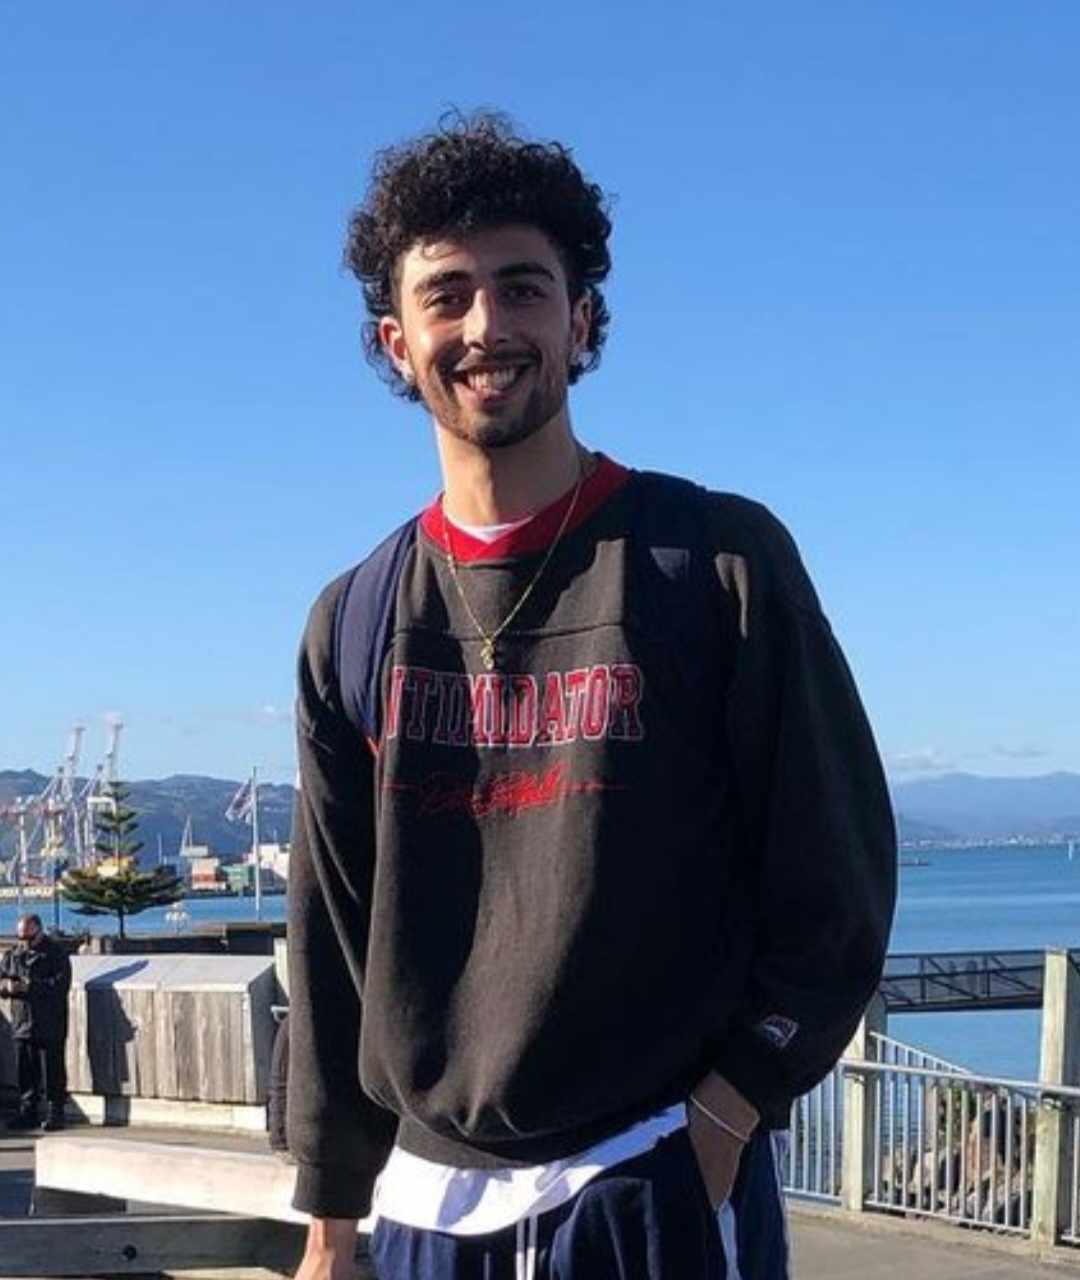
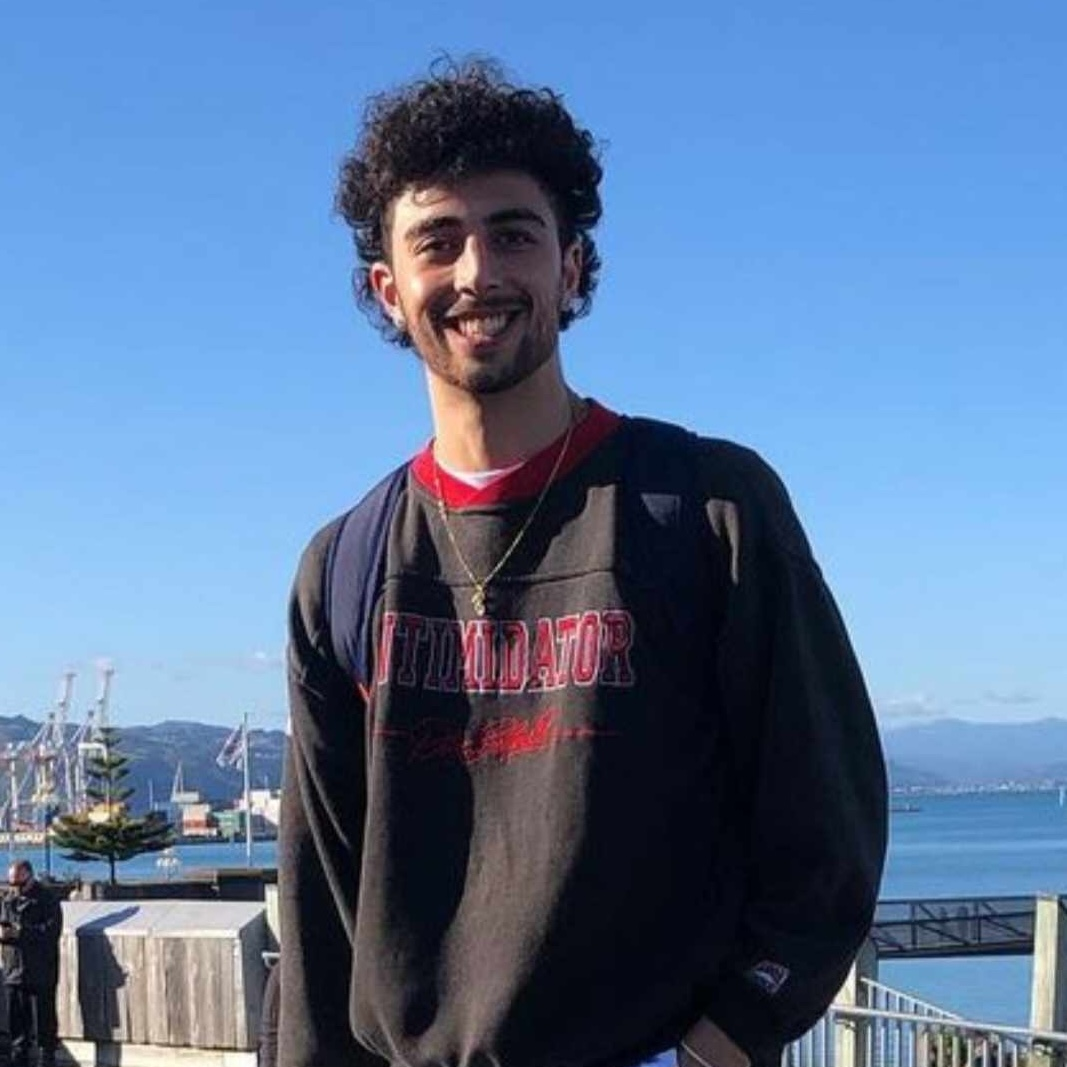
Update site

diff --git a/index.html b/index.html
@@ -6,11 +6,15 @@
     <meta content="width=device-width, initial-scale=1.0" name="viewport">
 
     <title>GeoSolutions</title>
-    <meta content="We are a specialised consultancy practising in geotechnical engineering and engineering geology. We cover projects and sites all around the Top of the South Island and look after both the residential and commercial building sectors. We’re a local business and aim to look after our clients so that they tell all their friends. Word-of-mouth referrals are our favourite jobs! Talk to us now and find out how we can help." name="description">
+    <meta
+        content="We are a specialised consultancy practising in geotechnical engineering and engineering geology. We cover projects and sites all around the Top of the South Island and look after both the residential and commercial building sectors. We’re a local business and aim to look after our clients so that they tell all their friends. Word-of-mouth referrals are our favourite jobs! Talk to us now and find out how we can help."
+        name="description">
     <meta content="Geology Geosolution Sally Hargraves Geosolutions nz Geosolution NZ New Zealand" name="keywords">
     <link href="assets/img/icon.png" rel="icon" sizes="32x32">
     <link href="assets/img/icon.png" rel="apple-touch-icon">
-    <link href="https://fonts.googleapis.com/css?family=Open+Sans:300,300i,400,400i,700,700i|Roboto:100,300,400,500,700|Philosopher:400,400i,700,700i" rel="stylesheet">
+    <link
+        href="https://fonts.googleapis.com/css?family=Open+Sans:300,300i,400,400i,700,700i|Roboto:100,300,400,500,700|Philosopher:400,400i,700,700i"
+        rel="stylesheet">
     <link href="assets/vendor/bootstrap/css/bootstrap.min.css" rel="stylesheet">
     <link href="assets/vendor/bootstrap-icons/bootstrap-icons.css" rel="stylesheet">
     <link href="assets/css/style.css" rel="stylesheet">
@@ -41,7 +45,7 @@
     </header>
     <section id="home" );>
         <div class="home-container" data-aos="fade-in">
-            <h1>Welcome to <br /> GeoSolutions</h1>
+            <h1><span style="font-weight: 400">Welcome to </span><br /> GeoSolutions</h1>
             <h2>Geotechnical Specialists</h2>
             <a href="#get-started" class="btn-get-started scrollto">Get Started</a>
         </div>
@@ -51,18 +55,17 @@
         <section id="get-started" class="padd-section" style="margin-top: 100px;">
 
             <div class="container" data-aos="fade-up">
-                <div class="section-title text-center">
 
-                    <h2>About Us</h2>
+                <div class="row text-center" style="justify-content: center;">
+                    <h1 style="font-weight: 100">About Us</h1>
 
-                </div>
-            </div>
-
-            <div class="container">
-                <div class="row" style="justify-content: center;">
-                    <div class="col-lg-6 col-lg-4" data-aos="zoom-in" data-aos-delay="300">
-                        <p style="font-size: 16px;">We are a specialised consultancy practising in geotechnical engineering and engineering geology. We cover projects and sites all around the Top of the South Island and look after both the residential and commercial building sectors.
-                            We’re a local business and aim to look after our clients so that they tell all their friends. Word-of-mouth referrals are our favourite jobs! Talk to us now and find out how we can help.
+                    <div class="col-lg-6 col-lg-4 mt-4" data-aos="zoom-in" data-aos-delay="300">
+                        <p style="font-size: 16px;">We are a specialised geotechnical consultancy, covering projects and
+                            sites all around the Top of the
+                            South Island and look after both the residential and commercial building sectors.
+                            We’re a local business and aim to look after our clients so that they tell all their
+                            friends. Word-of-mouth referrals are our favourite jobs! Talk to us now and find out how we
+                            can help.
                         </p>
 
                     </div>
@@ -85,27 +88,54 @@
                     <div class="col-md-7 col-lg-6">
                         <div class="about-content" data-aos="fade-left" data-aos-delay="100">
 
-                            <center>
+                            <div class="text-center">
                                 <h2>Our Services</h2>
-                            </center>
-                            <p>
-                                GeoSolutions provides specialist geotechnical engineering services to assist you with your building project. You may need to provide a Geotech report to accompany your application for resource consent for a subdivision or would like a foundation assessment
-                                for a new cellphone tower. We will help you establish an appropriate and cost-effective investigation for your project and then walk you through the process through to consent application. We usually need to double check
-                                the plans before application, may need to answer questions during the consent application and will almost certainly need to check the ground conditions during construction.
-                            </p>
 
-                            <ul class="list-unstyled">
-                                <li style="margin-bottom: -15px"><span style="color:black; font-size: 50px">.</span>Site and soil investigations</li>
-                                <li style="margin-bottom: -15px"><span style="color:black; font-size: 50px">.</span>Landslip damage assessment and remediation</li>
-                                <li style="margin-bottom: -15px"><span style="color:black; font-size: 50px">.</span>Subdivision geotechnical assessments (urban and rural)</li>
-                                <li style="margin-bottom: -15px"><span style="color:black; font-size: 50px">.</span>Liquefaction assessment</li>
-                                <li style="margin-bottom: -15px"><span style="color:black; font-size: 50px">.</span>Foundation design</li>
-                                <li style="margin-bottom: -15px"><span style="color:black; font-size: 50px">.</span>Establishment of fault location</li>
-                                <li style="margin-bottom: -15px"><span style="color:black; font-size: 50px;">.</span>Earthworks design, supervision & certification</li>
-                                <li style="margin-bottom: -15px"><span style="color:black; font-size: 50px">.</span>Natural disaster insurance assessment</li>
-                                <li style="margin-bottom: -15px"><span style="color:black; font-size: 50px">.</span>Geotechnical peer review services and expert opinions</li>
-                                <li style="margin-bottom: -15px"><span style="color:black; font-size: 50px">.</span>On-site wastewater disposal suitability assessment</li>
-                                <li style="margin-bottom: -15px"><span style="color:black; font-size: 50px;">.</span>Geotechnical site certification</li>
+                                <p>
+                                    GeoSolutions provides specialist geotechnical services to assist you with
+                                    your building project. You may need to provide a Geotech report to accompany your
+                                    application for resource consent for a subdivision or would like a foundation
+                                    assessment
+                                    for a new cellphone tower. We will help you establish an appropriate and
+                                    cost-effective
+                                    investigation for your project and then walk you through the process through to
+                                    consent
+                                    application. We usually need to double check
+                                    the plans before application, may need to answer questions during the consent
+                                    application and will almost certainly need to check the ground conditions during
+                                    construction.
+                                </p>
+                            </div>
+
+                            <ul class="list-unstyled p-4" style="margin-top: 10vh">
+                                <li style="margin-bottom: -15px"><span style="color:black; font-size: 50px">.</span>Site
+                                    and soil investigations</li>
+                                <li style="margin-bottom: -15px"><span
+                                        style="color:black; font-size: 50px">.</span>Landslip damage assessment and
+                                    remediation</li>
+                                <li style="margin-bottom: -15px"><span
+                                        style="color:black; font-size: 50px">.</span>Subdivision geotechnical
+                                    assessments (urban and rural)</li>
+                                <li style="margin-bottom: -15px"><span
+                                        style="color:black; font-size: 50px">.</span>Liquefaction assessment</li>
+                                <li style="margin-bottom: -15px"><span
+                                        style="color:black; font-size: 50px">.</span>Establishment of fault location
+                                </li>
+                                <li style="margin-bottom: -15px"><span
+                                        style="color:black; font-size: 50px;">.</span>Earthworks design, supervision &
+                                    certification</li>
+                                <li style="margin-bottom: -15px"><span
+                                        style="color:black; font-size: 50px">.</span>Natural disaster insurance
+                                    assessment</li>
+                                <li style="margin-bottom: -15px"><span
+                                        style="color:black; font-size: 50px">.</span>Geotechnical peer review services
+                                    and expert opinions</li>
+                                <li style="margin-bottom: -15px"><span
+                                        style="color:black; font-size: 50px">.</span>On-site wastewater disposal
+                                    suitability assessment</li>
+                                <li style="margin-bottom: -15px"><span
+                                        style="color:black; font-size: 50px;">.</span>Geotechnical site certification
+                                </li>
                             </ul>
 
                         </div>
@@ -121,11 +151,12 @@
                     <h2>Team Members</h2>
                 </div>
 
-                <div class="row" style="justify-content: center;">
+                <div class="row p-4" style="justify-content: center;">
 
-                    <div class="col-md-6 col-md-4 col-lg-3" >
-                        <div class="team-block bottom">
-                            <img src="assets/img/Stuff News Sally Nov-22 small.jpg" class="" alt="img">
+                    <!-- Team Member 1 -->
+                    <div class="col-md-6 col-md-4 col-lg-3">
+                        <div class="team-block bottom square-container"
+                            style="background-image: url('assets/img/Stuff News Sally Nov-22 small.jpg');">
                             <div class="team-content">
                                 <span>Professional Engineering Geologist</span>
                                 <h4>Sally Hargraves</h4>
@@ -133,9 +164,10 @@
                         </div>
                     </div>
 
+                    <!-- Team Member 2 -->
                     <div class="col-md-6 col-md-4 col-lg-3" data-aos="zoom-in" data-aos-delay="200">
-                        <div class="team-block bottom">
-                            <img src="assets/img/Mark Gray skateboard.jpeg" class="img-responsive" alt="img">
+                        <div class="team-block bottom square-container"
+                            style="background-image: url('assets/img/Mark Gray skateboard.jpeg');">
                             <div class="team-content">
                                 <span>Senior Engineering Geologist</span>
                                 <h4>Mark Gray</h4>
@@ -144,20 +176,10 @@
                         </div>
                     </div>
 
+                    <!-- Team Member 3 -->
                     <div class="col-md-6 col-md-4 col-lg-3" data-aos="zoom-in" data-aos-delay="200">
-                        <div class="team-block bottom">
-                            <img src="assets/img/employee2.jpg" class="img-responsive" alt="img">
-                            <div class="team-content">
-                                <span>Engineering Geologist</span>
-                                <h4>Marama Garland</h4>
-                                <h4>marama@geosolutions.nz</h4>
-                            </div>
-                        </div>
-                    </div>
-
-                    <div class="col-md-6 col-md-4 col-lg-3" data-aos="zoom-in" data-aos-delay="200">
-                        <div class="team-block bottom">
-                            <img src="assets/img/employee3.png" class="img-responsive" alt="img">
+                        <div class="team-block bottom square-container"
+                            style="background-image: url('assets/img/employee3.png');">
                             <div class="team-content">
                                 <span>Engineering Geologist</span>
                                 <h4>Sam Buckner</h4>
@@ -165,10 +187,11 @@
                             </div>
                         </div>
                     </div>
-                    <br /><br />
-                    <div class="col-md-6 col-md-4 col-lg-3 mt-4" data-aos="zoom-in" data-aos-delay="200">
-                        <div class="team-block bottom">
-                            <img src="assets/img/profile pic 2.jpg" class="img-responsive" alt="img">
+
+                    <!-- Team Member 4 -->
+                    <div class="col-md-6 col-md-4 col-lg-3" data-aos="zoom-in" data-aos-delay="200">
+                        <div class="team-block bottom square-container"
+                            style="background-image: url('assets/img/profile pic 2.jpg');">
                             <div class="team-content">
                                 <span>Graduate Engineering Geologist</span>
                                 <h4>Jordan Lindbom</h4>
@@ -176,18 +199,22 @@
                             </div>
                         </div>
                     </div>
-                    <div class="col-md-6 mt-4 col-md-4 col-lg-3" data-aos="zoom-in" data-aos-delay="200">
-                        <div class="team-block bottom">
-                            <img src="assets/img/Jarrod headshot.jpg" class="img-responsive" alt="img">
+
+                    <!-- Team Member 5 -->
+                    <div class="col-md-6 col-md-4 col-lg-3 second-team-row" data-aos="zoom-in" data-aos-delay="200">
+                        <div class="team-block bottom square-container"
+                            style="background-image: url('assets/img/Jarrod headshot.jpg');">
                             <div class="team-content">
                                 <span>Project Support</span>
                                 <h4>Jarrod Hammond</h4>
                             </div>
                         </div>
                     </div>
-                    <div class="col-md-6 col-md-4 col-lg-3 mt-4" data-aos="zoom-in" data-aos-delay="200">
-                        <div class="team-block bottom">
-                            <img src="assets/img/Danielle Headshot.JPG" class="img-responsive" alt="img">
+
+                    <!-- Team Member 6 -->
+                    <div class="col-md-6 col-md-4 col-lg-3 second-team-row" data-aos="zoom-in" data-aos-delay="200">
+                        <div class="team-block bottom square-container"
+                            style="background-image: url('assets/img/Danielle Headshot.JPG');">
                             <div class="team-content">
                                 <span>Administrative Support</span>
                                 <h4>Danielle Martin</h4>
@@ -198,12 +225,14 @@
                 </div>
             </div>
         </section>
-        <div class="container" id="contact" data-aos="fade-up" style="padding-top: 75px;">
-            <div class="section-title text-center">
-                <br /><br />
-                <h2>Contact Us</h2>
-                <h4>Mobile: 027 898 6000 <br />admin@geosolutions.nz<br />sally@geosolutions.nz</h4>
-
+        <div class="container">
+            <div id="contact" data-aos="fade-up">
+                <div class="text-center">
+                    <div class="contact-title">
+                        <h2>Contact Us</h2>
+                    </div>
+                    <h4>Mobile: 027 898 6000 <br />admin@geosolutions.nz<br />sally@geosolutions.nz</h4>
+                </div>
             </div>
         </div>
         <footer class="footer">
@@ -214,7 +243,8 @@
                         <div class="footer-logo">
 
                             <a class="navbar-brand" href="#">GeoSolutions</a>
-                            <p>Our focus is on the private sector market in the communities in and around the top of the South Island, New Zealand. (Nelson Tasman)</p>
+                            <p>Our focus is on the private sector market in the communities in and around the top of the
+                                South Island, New Zealand. (Nelson Tasman)</p>
 
                         </div>
                     </div>
@@ -241,7 +271,8 @@
 
         </footer>
 
-        <a href="#" class="back-to-top d-flex align-items-center justify-content-center"><i class="bi bi-arrow-up-short"></i></a>
+        <a href="#" class="back-to-top d-flex align-items-center justify-content-center"><i
+                class="bi bi-arrow-up-short"></i></a>
 
         <script src="assets/vendor/bootstrap/js/bootstrap.bundle.min.js"></script>
         <script src="assets/js/main.js"></script>

diff --git a/assets/css/style.css b/assets/css/style.css
@@ -1,4 +1,5 @@
 @charset "UTF-8";
+
 body {
     background-color: #ffffff;
     color: #333;
@@ -274,6 +275,7 @@ span {
     .navbar .dropdown .dropdown ul {
         left: -90%;
     }
+
     .navbar .dropdown .dropdown:hover>ul {
         left: -100%;
     }
@@ -301,6 +303,7 @@ span {
     .mobile-nav-toggle {
         display: block;
     }
+
     .navbar ul {
         display: none;
     }
@@ -602,9 +605,11 @@ section {
     .breadcrumbs .d-flex {
         display: block !important;
     }
+
     .breadcrumbs ol {
         display: block;
     }
+
     .breadcrumbs ol li {
         display: inline-block;
     }
@@ -851,6 +856,7 @@ section {
         transform: scale(0.6, 0.6);
         opacity: 1;
     }
+
     100% {
         transform: scale(1, 1);
         opacity: 0;
@@ -862,6 +868,7 @@ section {
         transform: scale(0.6, 0.6);
         opacity: 1;
     }
+
     100% {
         transform: scale(1, 1);
         opacity: 0;
@@ -873,6 +880,7 @@ section {
         transform: scale(0.1, 0.1);
         opacity: 1;
     }
+
     100% {
         transform: scale(1, 1);
         opacity: 0;
@@ -1393,6 +1401,7 @@ section {
     0% {
         transform: rotate(0deg);
     }
+
     100% {
         transform: rotate(360deg);
     }
@@ -1402,6 +1411,7 @@ section {
     0% {
         transform: rotate(0deg);
     }
+
     100% {
         transform: rotate(360deg);
     }
@@ -1470,4 +1480,50 @@ section {
 .footer .copyrights .credits a {
     letter-spacing: 0;
     color: #71c55d;
+}
+
+@media (min-width: 992px) {
+    .second-team-row {
+        margin-top: 3vh;
+    }
+}
+
+.square-container {
+    position: relative;
+    overflow: hidden;
+    padding-top: 100%;
+    background-size: cover;
+    background-position: center;
+    background-repeat: no-repeat;
+}
+
+#contact {
+    background-color: #f0f0f0;
+    border-radius: 1.5vw;
+    margin: 5vh 20vw 15vh 20vw;
+    padding: 0vh 0 10vh 0;
+}
+
+@media (max-width: 992px) {
+    #contact {
+        margin: 5vh 1vw 15vh 1vw;
+    }
+}
+
+#contact h4 {
+    font-size: 1.25em;
+}
+
+.contact-title {
+    background-color: #71c55d;
+    border-radius: 1.5vw 1.5vw 0 0;
+    padding: 2vh 0 2vh 0;
+    margin-bottom: 5vh;
+}
+
+.contact-title h2 {
+    color: #fff;
+    font-size: 2.5em;
+    text-align: center;
+    font-weight: 300;
 }
